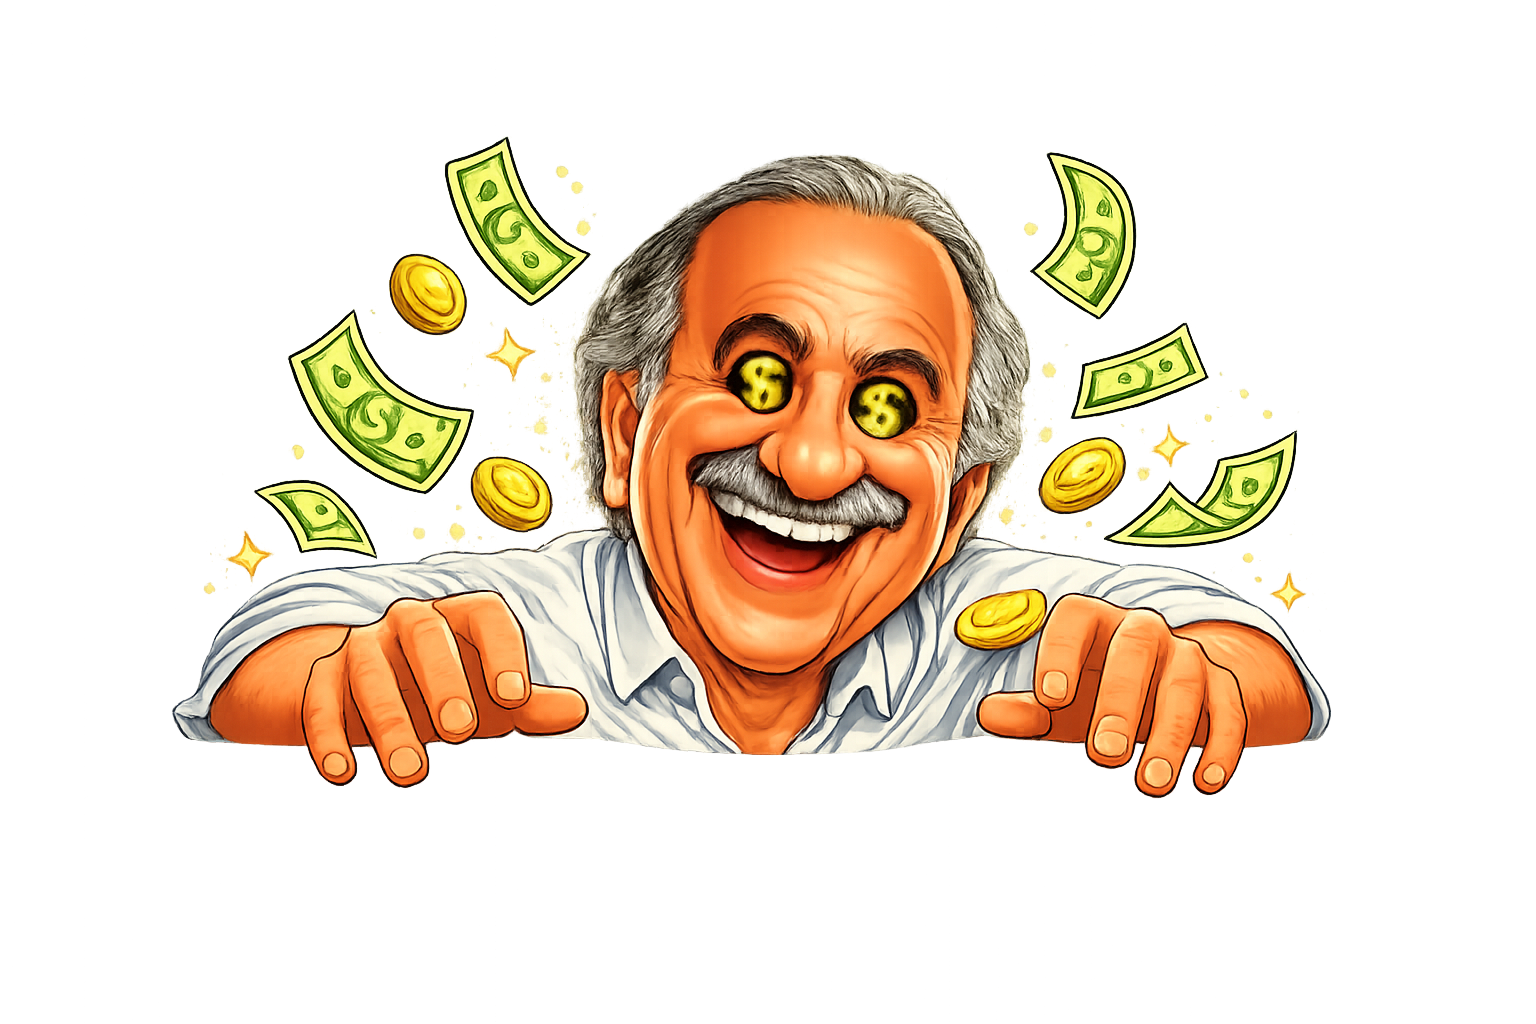
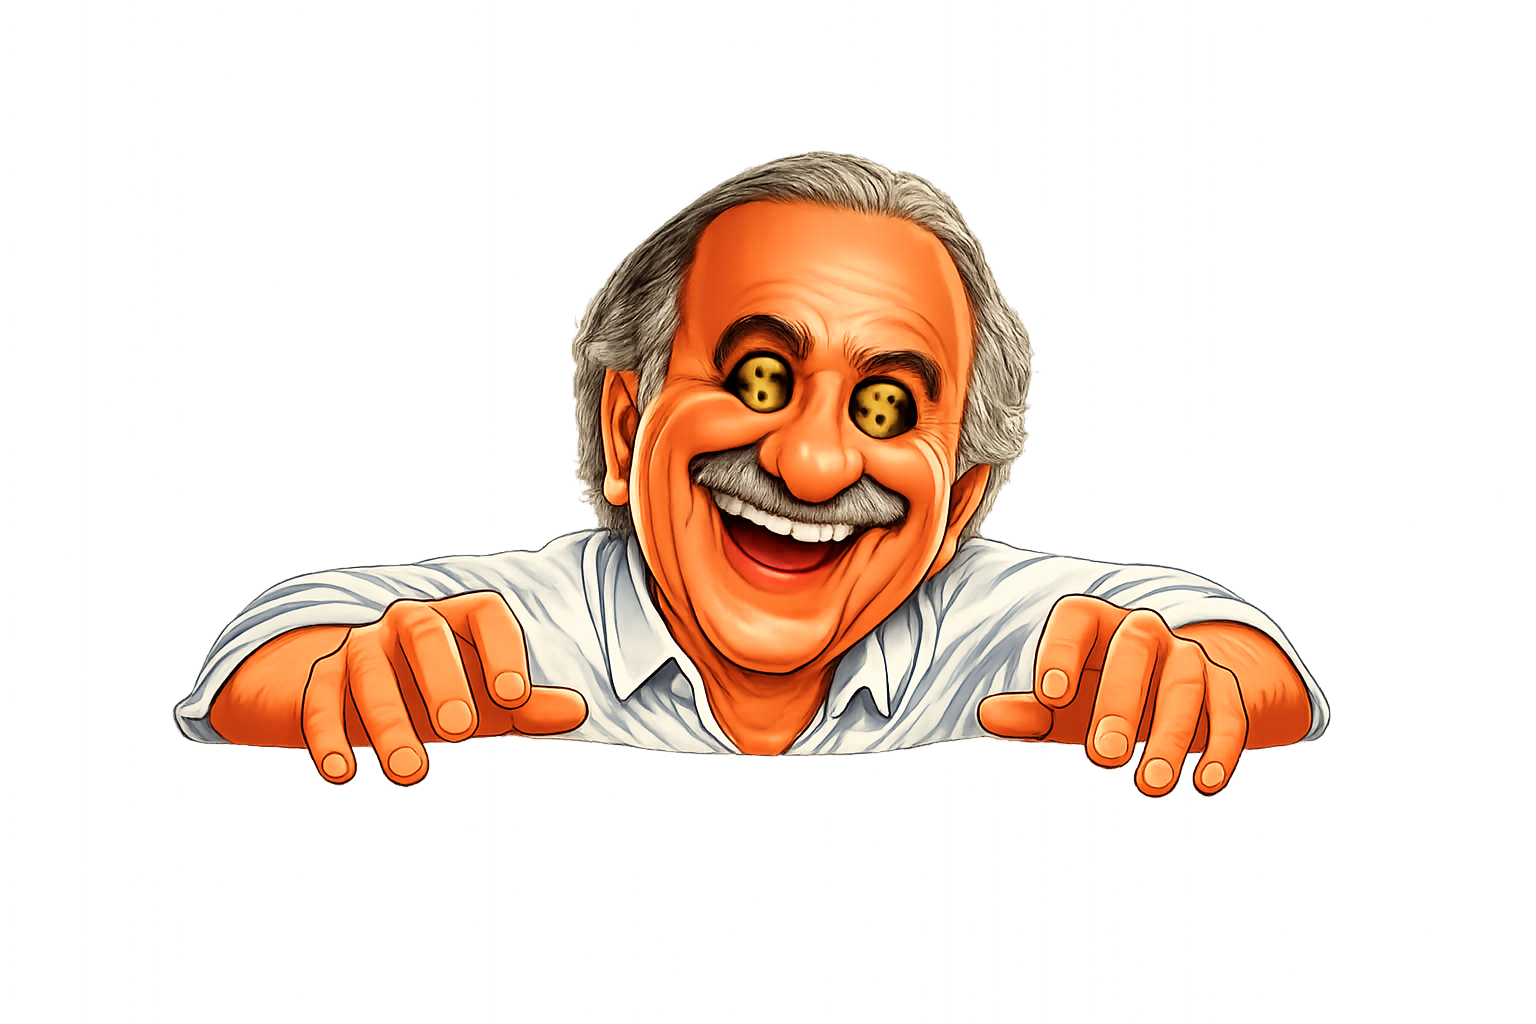
fix: update layout, money rain, caricatura and settings

Changed region(s): [[0.0938, 0.125, 0.8438, 0.7812], [0.8438, 0.6562, 0.875, 0.7188]]

diff --git a/app/layout.tsx b/app/layout.tsx
@@ -3,6 +3,7 @@ import { Inter } from 'next/font/google'
 import './globals.css'
 import Script from 'next/script'
 import { MoneyRain } from '@/components/MoneyRain'
+import { VideoBackground } from '@/components/VideoBackground'
 
 const inter = Inter({ subsets: ['latin'] })
 
@@ -109,6 +110,7 @@ export default function RootLayout({
         />
       </head>
       <body className={`${inter.className} bg-background-dark min-h-screen relative`}>
+        <VideoBackground />
         <MoneyRain />
         {children}
 

diff --git a/app/page.tsx b/app/page.tsx
@@ -55,7 +55,7 @@ export default function Home() {
 
   // Versão Completa - se tem acesso
   return (
-    <div className={`min-h-screen flex flex-col transition-opacity duration-500 ${isTransitioning ? 'opacity-0' : 'opacity-100'}`}>
+    <div className={`min-h-screen flex flex-col transition-opacity duration-500 relative z-[2] ${isTransitioning ? 'opacity-0' : 'opacity-100'}`}>
       {/* Header */}
       <Header />
 

diff --git a/components/MoneyRain.tsx b/components/MoneyRain.tsx
@@ -62,7 +62,7 @@ export function MoneyRain() {
 
   return (
     <div
-      className="absolute top-0 left-0 w-full z-0 pointer-events-none overflow-hidden"
+      className="absolute top-0 left-0 w-full z-[1] pointer-events-none overflow-hidden"
       style={{
         height: `${pageHeight}px`,
         ['--page-height' as string]: `${pageHeight}px`,
